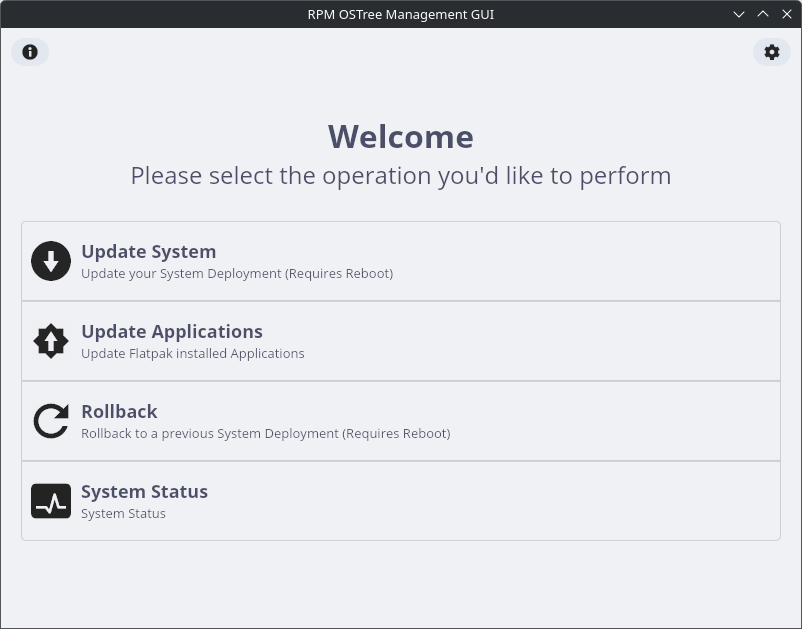
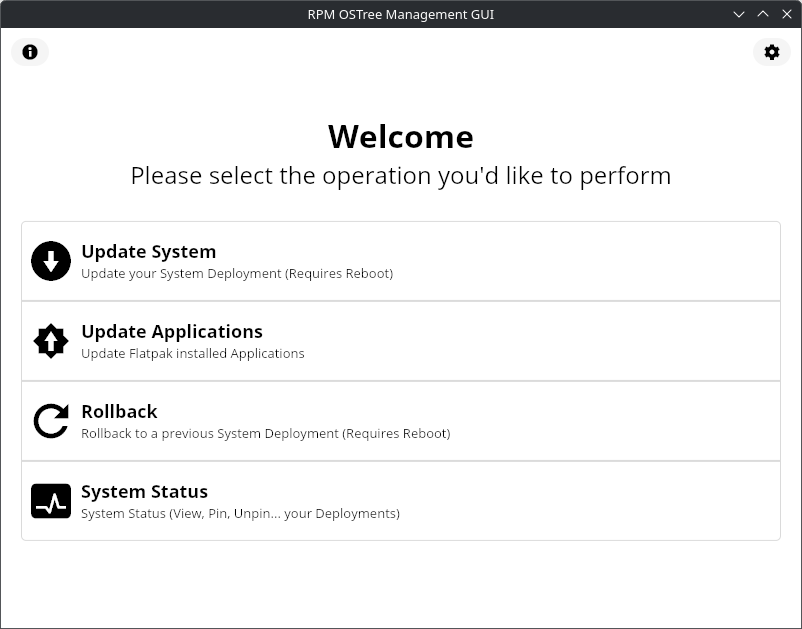
chore: update readme & screenshots

diff --git a/README.md b/README.md
@@ -6,7 +6,7 @@
   ![GitHub License](https://img.shields.io/github/license/mariinkys/rot-management-gui)
   ![GitHub Repo stars](https://img.shields.io/github/stars/mariinkys/rot-management-gui)
 
-  <h3>*WIP* GUI to manage RPMOSTree Systems (Such as Silverblue or Kinoite)</h3>
+  <h3>GUI to manage RPMOSTree Systems (Such as Silverblue or Kinoite)</h3>
 
   <img width="350" alt="Main Page Light Mode" src="./screenshots/main-light.png"/>
   <img width="350" alt="Main Page Dark Mode" src="./screenshots/main-dark.png"/>
@@ -15,9 +15,15 @@
 ## Notes
 
 > [!WARNING]
-> For this app to work correctly you MUST disable automatic updates on GNOME Software/KDE Software Update.
+> For this app to work correctly you MUST disable automatic updates on GNOME Software/KDE Software Update...
 >
 > You can check this in GNOME Software > Preferences or KDE Settings > Software Update
+> In Bazzite/UBlue distros it seems you can use `ujust _toggle-updates` (Check: https://github.com/ublue-os/bazzite/issues/2592)
+
+> [!CAUTION]
+> This app has been tested on Fedora Silverblue and Kinoite; efforts to make it work correctly on Bazzite... are being made; however, for now system updates can't be performed on Bazzite since `rpm-ostree upgrade --check` seems to not work reliably. 
+> Also, considering Bazzite... provide their own tools to handle updates comfortably I'm wondering if trying to support Bazzite... is a good idea in the first place.
+
 
 Key features are:
 
@@ -32,7 +38,7 @@ Special thanks to Simon and Catalina for their patience and confidence to switch
 
 ## TODO
 
-- Layered packages management
+- Upgrading Between Major Versions (https://docs.fedoraproject.org/en-US/fedora-silverblue/updates-upgrades-rollbacks/#upgrading)
 
 ## Attributions
 
